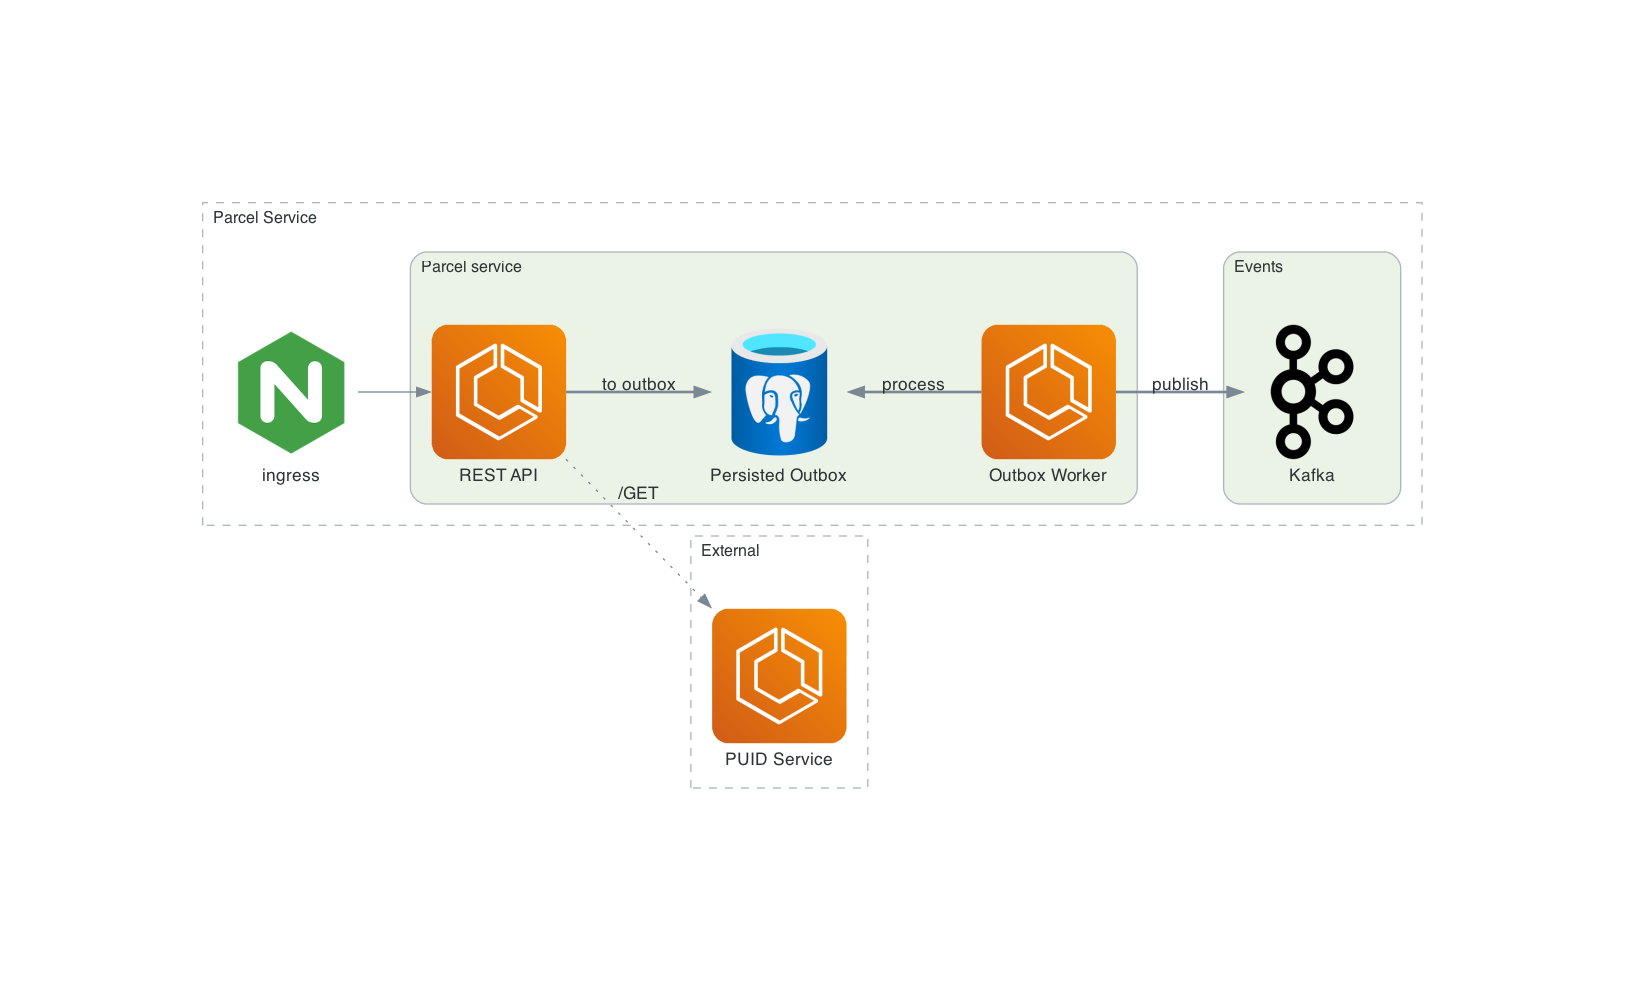
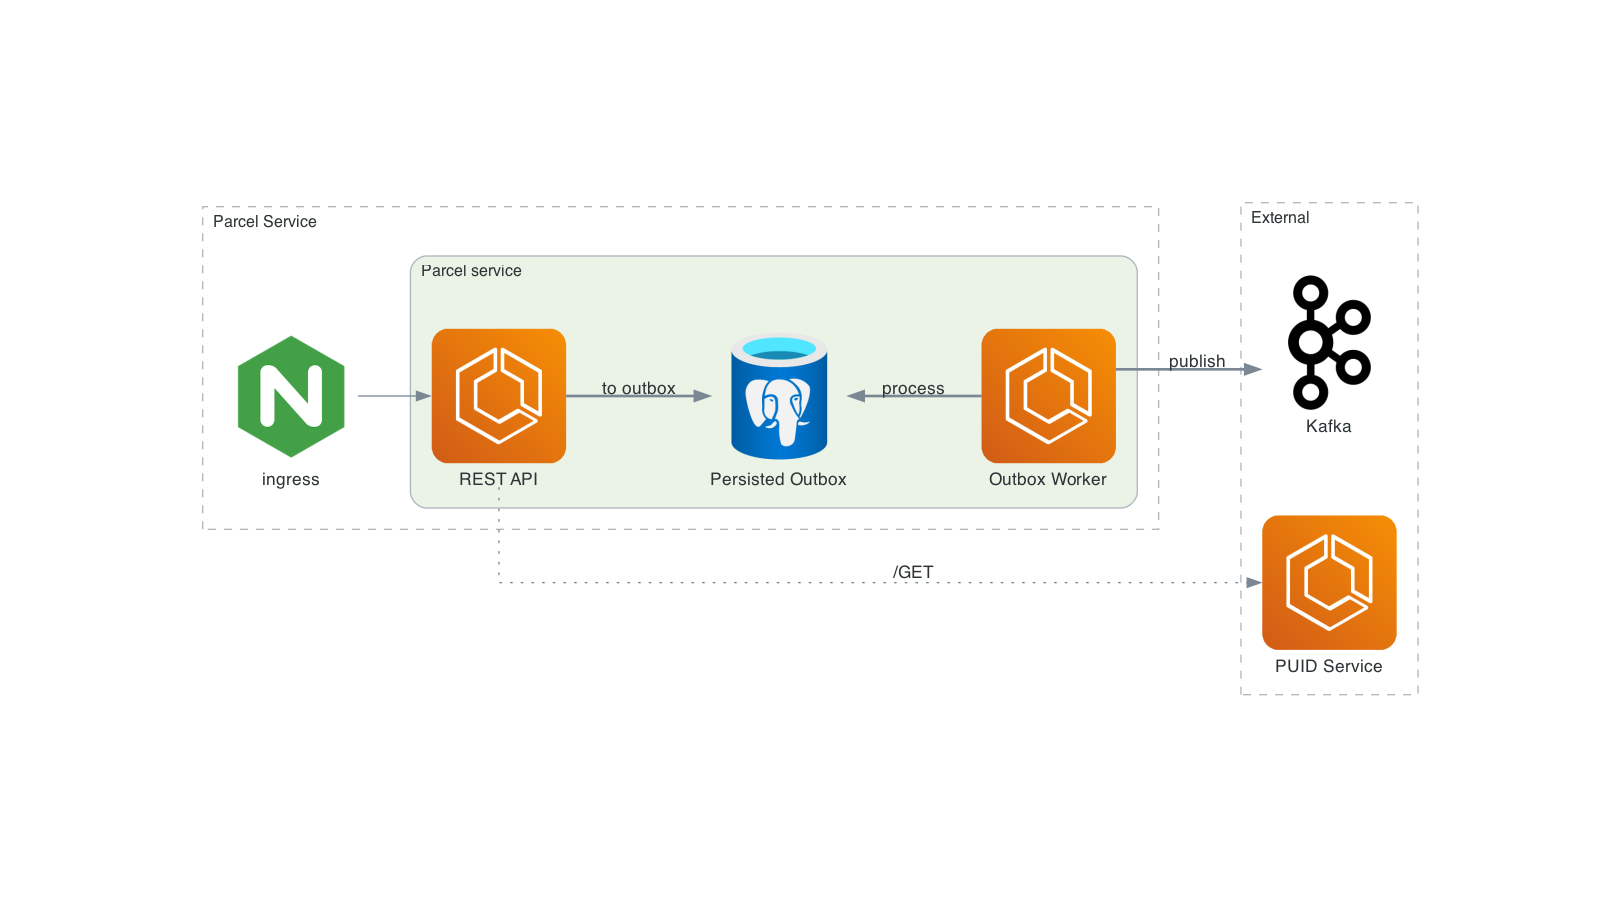
refactor

diff --git a/docs/diagrams/parcel_service_with_outbox.py b/docs/diagrams/parcel_service_with_outbox.py
@@ -8,21 +8,17 @@ from diagrams.c4 import SystemBoundary
 
 show_image = True
 
-graph_attr = {
-    "splines": "spline"
-}
-
-with Diagram(show=show_image, direction="LR", filename="parcel_service_with_outbox", outformat="png" , graph_attr=graph_attr):
+with Diagram(show=show_image, direction="LR", filename="parcel_service_with_outbox", outformat="png"):
 
     with SystemBoundary("External"):
         puid_service = ECS("PUID Service")
-            
+        event_bus = Kafka("Kafka") 
+
     with SystemBoundary("Parcel Service"):
 
         ingres =  Nginx("ingress")
     
-        with Cluster("Events"):
-            event_bus = Kafka("Kafka")     
+    
 
         with Cluster("Parcel service", direction="LR"):         
             parcel_service = ECS("REST API") 
